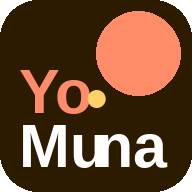
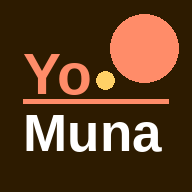
Add files via upload

diff --git a/index.html b/index.html
@@ -413,13 +413,28 @@ input:focus,select:focus{border-color:var(--peach);background:white;}
 </div>
 
 <!-- BANDEAU COOKIES -->
-<div id="cookie-banner" style="display:none;position:fixed;bottom:0;left:0;right:0;z-index:600;background:white;border-top:2px solid var(--border);padding:1rem 1.5rem;flex;align-items:center;justify-content:space-between;gap:1rem;flex-wrap:wrap;box-shadow:0 -4px 20px rgba(0,0,0,0.1);">
+<div id="cookie-banner" style="display:none;position:fixed;bottom:0;left:0;right:0;z-index:600;background:white;border-top:2px solid var(--border);padding:1rem 1.5rem;align-items:center;justify-content:space-between;gap:1rem;flex-wrap:wrap;box-shadow:0 -4px 20px rgba(0,0,0,0.08);">
   <p style="margin:0;font-size:0.9rem;color:var(--text-mid);font-weight:600;flex:1;min-width:200px;">
     🍪 YoMuna utilise le stockage local pour maintenir votre session et sauvegarder vos préférences. Aucun cookie publicitaire. <a onclick="showLegal('privacy')" style="color:var(--peach-dark);cursor:pointer;font-weight:800;text-decoration:underline;">En savoir plus</a>
   </p>
   <div style="display:flex;gap:0.5rem;flex-shrink:0;margin-top:0.5rem;">
     <button onclick="acceptCookies()" style="background:var(--peach);border:none;color:white;padding:0.6rem 1.25rem;border-radius:50px;font-weight:800;font-size:0.85rem;cursor:pointer;font-family:'Nunito',sans-serif;">Accepter</button>
     <button onclick="document.getElementById('cookie-banner').style.display='none'" style="background:none;border:2px solid var(--border);color:var(--text-soft);padding:0.6rem 1.25rem;border-radius:50px;font-weight:700;font-size:0.85rem;cursor:pointer;font-family:'Nunito',sans-serif;">Refuser</button>
+  </div>
+</div>
+
+<!-- BANNIERE INSTALLATION ECRAN D'ACCUEIL -->
+<div id="install-banner" style="display:none;position:fixed;bottom:0;left:0;right:0;z-index:599;background:linear-gradient(135deg,#2D1B00,#6B4226);padding:1rem 1.25rem;box-shadow:0 -6px 24px rgba(0,0,0,0.25);">
+  <div style="max-width:600px;margin:0 auto;display:flex;align-items:center;gap:1rem;">
+    <img src="apple-touch-icon.png" alt="YoMuna" style="width:52px;height:52px;border-radius:12px;flex-shrink:0;" onerror="this.style.display='none'" />
+    <div style="flex:1;min-width:0;">
+      <div style="font-weight:800;font-size:0.95rem;color:white;margin-bottom:0.15rem;">Installer YoMuna 🌙</div>
+      <div id="install-instructions" style="font-size:0.78rem;color:rgba(255,255,255,0.7);font-weight:600;line-height:1.4;"></div>
+    </div>
+    <div style="display:flex;gap:0.5rem;flex-shrink:0;">
+      <button id="install-btn" onclick="triggerInstall()" style="display:none;background:var(--peach);border:none;color:white;padding:0.55rem 1.1rem;border-radius:50px;font-weight:800;font-size:0.82rem;cursor:pointer;font-family:'Nunito',sans-serif;white-space:nowrap;">Installer</button>
+      <button onclick="dismissInstallBanner()" style="background:rgba(255,255,255,0.15);border:none;color:white;width:32px;height:32px;border-radius:50%;font-size:1rem;cursor:pointer;flex-shrink:0;">✕</button>
+    </div>
   </div>
 </div>
 
@@ -3572,6 +3587,107 @@ async function processRenewal() {
   } finally { hideLoading(); }
 }
 
+// ===== BANNIERE INSTALLATION =====
+let deferredInstallPrompt = null;
+
+// Capturer l'événement beforeinstallprompt (Android/Chrome)
+window.addEventListener('beforeinstallprompt', (e) => {
+  e.preventDefault();
+  deferredInstallPrompt = e;
+  showInstallBanner('android');
+});
+
+function detectOS() {
+  const ua = navigator.userAgent.toLowerCase();
+  if (/iphone|ipad|ipod/.test(ua)) return 'ios';
+  if (/android/.test(ua)) return 'android';
+  return 'other';
+}
+
+function isStandalone() {
+  return window.matchMedia('(display-mode: standalone)').matches
+    || window.navigator.standalone === true;
+}
+
+function showInstallBanner(platform) {
+  // Ne pas montrer si déjà installé ou déjà refusé
+  if (isStandalone()) return;
+  if (localStorage.getItem('yomuna_install_dismissed')) return;
+
+  const banner = document.getElementById('install-banner');
+  const instructions = document.getElementById('install-instructions');
+  const installBtn = document.getElementById('install-btn');
+
+  if (!banner || !instructions) return;
+
+  if (platform === 'ios') {
+    instructions.innerHTML = 'Appuie sur <strong style="color:var(--yellow);">⎋ Partager</strong> puis <strong style="color:var(--yellow);">"Sur l\'écran d\'accueil"</strong> pour accéder sans taper l\'adresse';
+    if (installBtn) installBtn.style.display = 'none';
+  } else if (platform === 'android') {
+    instructions.innerHTML = 'Ajoute YoMuna à ton écran d\'accueil pour un accès rapide comme une vraie app';
+    if (installBtn) installBtn.style.display = 'block';
+  } else {
+    return; // Ne pas montrer sur desktop
+  }
+
+  banner.style.display = 'block';
+}
+
+function triggerInstall() {
+  if (!deferredInstallPrompt) return;
+  deferredInstallPrompt.prompt();
+  deferredInstallPrompt.userChoice.then((result) => {
+    if (result.outcome === 'accepted') {
+      localStorage.setItem('yomuna_install_dismissed', '1');
+    }
+    deferredInstallPrompt = null;
+    document.getElementById('install-banner').style.display = 'none';
+  });
+}
+
+function dismissInstallBanner() {
+  document.getElementById('install-banner').style.display = 'none';
+  // Re-montrer dans 3 jours
+  const future = Date.now() + (3 * 24 * 60 * 60 * 1000);
+  localStorage.setItem('yomuna_install_dismissed', future.toString());
+}
+
+function initInstallBanner() {
+  if (isStandalone()) return; // Déjà installé
+
+  // Vérifier si le dismiss n'est pas expiré
+  const dismissed = localStorage.getItem('yomuna_install_dismissed');
+  if (dismissed) {
+    const ts = parseInt(dismissed);
+    if (!isNaN(ts) && Date.now() < ts) return; // Pas encore expiré
+    // Expiré — supprimer et re-montrer
+    localStorage.removeItem('yomuna_install_dismissed');
+  }
+
+  const os = detectOS();
+
+  // iOS — montrer après 3 secondes (pas d'événement natif sur iOS)
+  if (os === 'ios') {
+    setTimeout(() => showInstallBanner('ios'), 3000);
+  }
+  // Android — le beforeinstallprompt se déclenche automatiquement si pas installé
+  // Fallback si l'événement ne se déclenche pas
+  if (os === 'android') {
+    setTimeout(() => {
+      if (!deferredInstallPrompt && !isStandalone()) {
+        const instructions = document.getElementById('install-instructions');
+        if (instructions) instructions.innerHTML = 'Ajoute YoMuna à ton écran d\'accueil via le menu ⋮ de ton navigateur';
+        const banner = document.getElementById('install-banner');
+        const btn = document.getElementById('install-btn');
+        if (banner) banner.style.display = 'block';
+        if (btn) btn.style.display = 'none';
+      }
+    }, 4000);
+  }
+}
+
+// ===== FIN BANNIERE INSTALLATION =====
+
 // ===== COOKIES =====
 function initCookieBanner() {
   if (!localStorage.getItem('yomuna_cookies_accepted')) {
@@ -4055,6 +4171,8 @@ window.addEventListener('load', async () => {
   await loadConfig();
   // Bandeau cookies
   initCookieBanner();
+  // Bannière installation écran d'accueil
+  initInstallBanner();
 
   const urlParams = new URLSearchParams(window.location.search);
   const paymentStatus = urlParams.get('status');